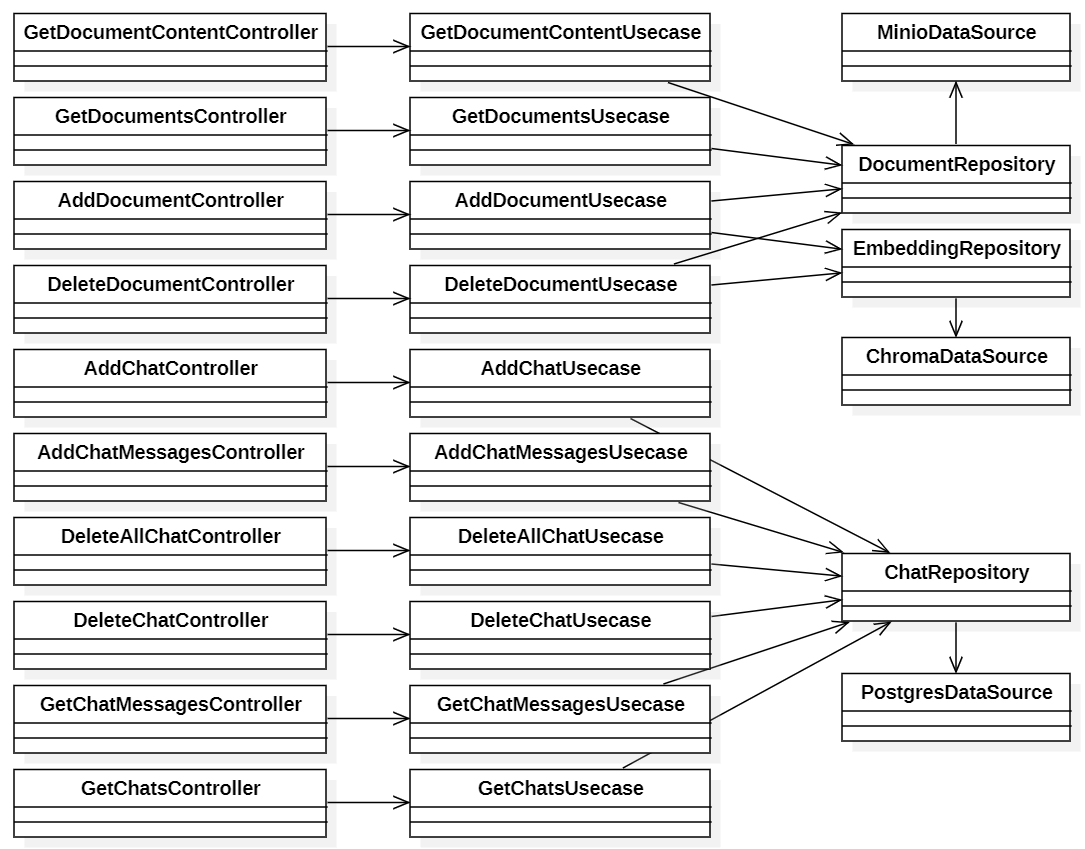
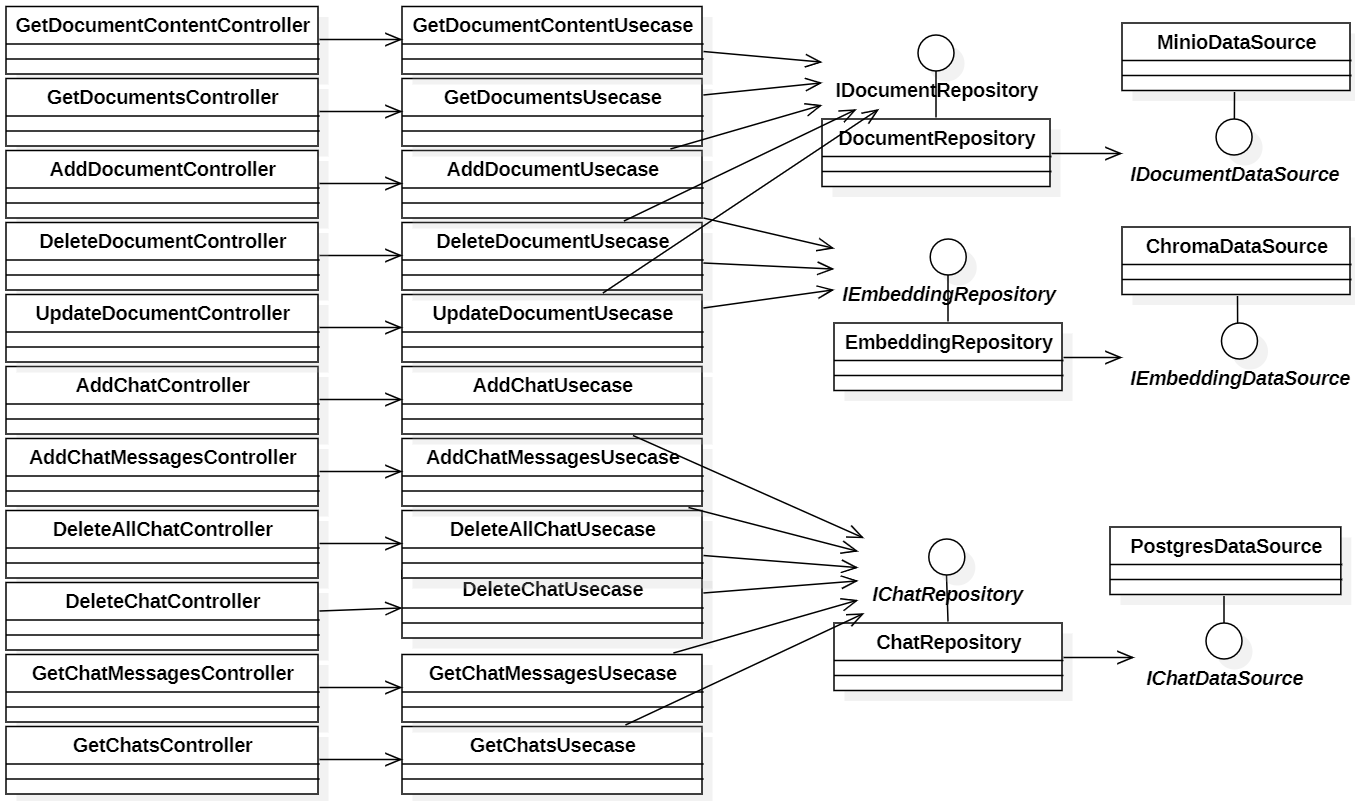
CC-276 Aggiornamento generale finale sezione backend (#248)
* Aggiornamento generale finale sezione backend

* New png

* Aggiunta versione file .tex

* fix versione

---------

Changed region(s): [[0.0, 0.0, 1.0, 0.9988], [0.6995, 0.5618, 0.73, 0.593]]

diff --git a/3-PB/Documentazione_esterna/Specifica_architetturale/archback.tex b/3-PB/Documentazione_esterna/Specifica_architetturale/archback.tex
@@ -9,7 +9,7 @@ Una volta terminate le operazioni nel data source, il controllo torna alla repos
 
 \begin{figure}[h!]
     \centering  
-    \includegraphics[width=0.7\textwidth]{backendview.png}
+    \includegraphics[width=0.95\textwidth]{backendview.png}
     \caption{UML introduttivo delle classi del back-end}
 \end{figure}
 
@@ -58,10 +58,10 @@ Questa funzione asincrona lato server effettua una chiamata a GetDocumentContent
 \begin{itemize}[itemsep=-4pt]
     \item \textit{docName: string};
     \item \textit{model: IModel};
-    \item \textit{visibility: boolean}.
+    \item \textit{updatedMetadas: Metadatas}.
 \end{itemize}
 \textbf{Descrizione}\\
-Questa funzione asincrona lato server effettua una chiamata a UpdateDocumentController, passando i parametri docName, model e visibility, che rappresentano il nome del documento da aggiornare, il modello che presenta tale documento e il nuovo valore che deve avere il tag di visibilità del documento. Gestisce la modifica delle informazioni inviando i dati al controller e si occupa di gestire eventuali errori che si possono verificare durante il processo.
+Questa funzione asincrona lato server effettua una chiamata a UpdateDocumentController, passando i parametri docName, model e updatedMetadas, che rappresentano il nome del documento da aggiornare, il modello che presenta tale documento e il nuovo valore che deve avere il tag di visibilità del documento. Gestisce la modifica delle informazioni inviando i dati al controller e si occupa di gestire eventuali errori che si possono verificare durante il processo.
 
 \subsubsection{addChat}
 \textbf{Parametri}
@@ -169,10 +169,10 @@ Questa classe controller, chiamata tramite la server action deleteDocument, gest
 \end{itemize}
 \textbf{Metodi}
 \begin{itemize}
-    \item \textit{handle(docName: string, model: IModel, visibility: boolean): Promise<Response>}.
+    \item \textit{handle(docName: string, model: IModel, updatedMetadas: Metadatas): Promise<Response>}.
 \end{itemize}
 \textbf{Descrizione}\\
-Questa classe controller, chiamata tramite la server action updateDocument, gestisce la chiamata al UpdateDocumentUsecase per aggiornare i tag e i metadati associati ad un documento, passando una \textit{string} docName, una \textit{string} model e un \textit{booleano} visibility, che rappresentano il nome del documento da aggiornare, il modello di appartenenza e il nuovo valore del tag di visibilità associato.\\ \\
+Questa classe controller, chiamata tramite la server action updateDocument, gestisce la chiamata al UpdateDocumentUsecase per aggiornare i tag e i metadati associati ad un documento, passando una \textit{string} docName, una \textit{string} model e dei metadati updatedMetadas, che rappresentano il nome del documento da aggiornare, il modello di appartenenza e il nuovo valore del tag di visibilità associato.\\ \\
 \textbf{Dipendenze}
 \begin{itemize}
     \item UpdateDocumentUsecase.
@@ -411,11 +411,12 @@ Questa classe controller, chiamata tramite la server action getChats, gestisce l
     \item \textit{execute(file: File, model: IModel)}.
 \end{itemize}
 \textbf{Descrizione}\\
-Questo use case, chiamato dal AddDocumentController, contiene la business logic relativa alle operazioni per aggiungere un nuovo documento nel sistema. Ricevuto il file e la \textit{string} model, gestisce la chiamata al DocumentRepository per aggiungere il nuovo documento. Dopo aver effettuato il parsing del contenuto del documento e averlo diviso per pagine, viene effettuato l'embedding del testo utilizzando l'embedding function determinata dal modello desiderato. Una volta completato questo processo, mapando gli embedding con il nome del documento, i metadati associati e il suo file, viene chiamato anche l'EmbeddingRepository per lo storage dei vettori sul database vettoriale. \\ \\
+Questo use case, chiamato dal AddDocumentController, contiene la business logic relativa alle operazioni per aggiungere un nuovo documento nel sistema. Ricevuto il file e la \textit{string} model, gestisce la chiamata al DocumentRepository per aggiungere il nuovo documento. Dopo aver effettuato il parsing del contenuto del documento e averlo diviso per pagine, viene effettuato l'embedding del testo utilizzando l'embedding function determinata dal modello desiderato. Una volta completato questo processo, mapando gli embedding con il nome del documento, i metadati associati e il suo file, viene chiamato anche l'EmbeddingRepository per lo storage dei vettori sul database vettoriale.\\
+Presenta un riferimento a delle interfacce IDocumentRepository e IEmbeddingRepository, le cui implementazioni concrete sono DocumentRepository e EmbeddingRepository, che espongono i metodi per lavorare sulle fonti dei dati presenti nel database.\\ \\
 \textbf{Dipendenze}
 \begin{itemize}[itemsep=-4pt]
-    \item DocumentRepository;
-    \item EmbeddingRepository.
+    \item IDocumentRepository;
+    \item IEmbeddingRepository.
 \end{itemize}
 \textbf{Requisiti associati}
 \begin{itemize}[itemsep=-4pt]
@@ -448,11 +449,12 @@ Questo use case, chiamato dal AddDocumentController, contiene la business logic 
 \end{itemize}
 \textbf{Descrizione}\\
 Questo use case, chiamato dal DeleteDocumentController, contiene la business logic relativa alle operazioni per eliminare uno specifico documento dal sistema. Ricevute le \textit{string} docName e model, gestisce la chiamata al DocumentRepository e all'EmbeddingRepository per rimuovere nuovo documento.\\
-Dopo aver effettuato la chiamata al DocumentRepository per richiedere l'eliminazione del documento dal database MinIO, richiede l'id degli embedding da rimuovere all'EmbeddingRepository, per poi richiedere l'eliminazione dei vettori identificati da essi alla medesima classe repository. \\ \\
+Dopo aver effettuato la chiamata al DocumentRepository per richiedere l'eliminazione del documento dal database MinIO, richiede l'id degli embedding da rimuovere all'EmbeddingRepository, per poi richiedere l'eliminazione dei vettori identificati da essi alla medesima classe repository.\\
+Presenta un riferimento a delle interfacce IDocumentRepository e IEmbeddingRepository, le cui implementazioni concrete sono DocumentRepository e EmbeddingRepository, che espongono i metodi per lavorare sulle fonti dei dati presenti nel database. \\ \\
 \textbf{Dipendenze}
 \begin{itemize}[itemsep=-4pt]
-    \item DocumentRepository;
-    \item EmbeddingRepository.
+    \item IDocumentRepository;
+    \item IEmbeddingRepository.
 \end{itemize}
 \textbf{Requisiti associati}
 \begin{itemize}
@@ -477,15 +479,16 @@ Dopo aver effettuato la chiamata al DocumentRepository per richiedere l'eliminaz
 \end{itemize}
 \textbf{Metodi}
 \begin{itemize}
-    \item \textit{execute(docName: string, model: IModel, visibility: boolean)}.
+    \item \textit{execute(docName: string, model: IModel, updatedMetadas: Metadatas)}.
 \end{itemize}
 \textbf{Descrizione}\\
-Questo use case, chiamato dal UpdateDocumentController, contiene la business logic relativa alle operazioni per aggiornare i tag e i metadati, relativi alla visibilità, di uno specifico documento. Ricevute le \textit{string} docName e model e il valore \textit{booleano} visibility, gestisce la chiamata al DocumentRepository e all'EmbeddingRepository per aggiornare i valori.\\
-Dopo aver effettuato la chiamata al DocumentRepository per richiedere l'aggiornamento del tag di visibilità del documento nel database MinIO, richiede l'id degli embedding da modificare all'EmbeddingRepository, per poi richiedere la modifica del metadato visibility dei vettori identificati da essi alla medesima classe repository. \\ \\
+Questo use case, chiamato dal UpdateDocumentController, contiene la business logic relativa alle operazioni per aggiornare i tag e i metadati, relativi alla visibilità, di uno specifico documento. Ricevute le \textit{string} docName e model e i nuovi metadati updatedMetadas, gestisce la chiamata al DocumentRepository e all'EmbeddingRepository per aggiornare i valori.\\
+Dopo aver effettuato la chiamata al DocumentRepository per richiedere l'aggiornamento del tag di visibilità del documento nel database MinIO, richiede l'id degli embedding da modificare all'EmbeddingRepository, per poi richiedere la modifica del metadato visibility dei vettori identificati da essi alla medesima classe repository.\\
+Presenta un riferimento a delle interfacce IDocumentRepository e IEmbeddingRepository, le cui implementazioni concrete sono DocumentRepository e EmbeddingRepository, che espongono i metodi per lavorare sulle fonti dei dati presenti nel database.\\ \\
 \textbf{Dipendenze}
 \begin{itemize}[itemsep=-4pt]
-    \item DocumentRepository;
-    \item EmbeddingRepository.
+    \item IDocumentRepository;
+    \item IEmbeddingRepository.
 \end{itemize}
 \textbf{Requisiti associati}
 \begin{itemize}[itemsep=-4pt]
@@ -515,10 +518,11 @@ Dopo aver effettuato la chiamata al DocumentRepository per richiedere l'aggiorna
     \item \textit{execute(docName: string, model: IModel)}.
 \end{itemize}
 \textbf{Descrizione}\\
-Questo use case, chiamato dal GetDocumentContentController, contiene la business logic relativa alle operazioni per ottenere il link di visualizzazione di uno specifico documento dal sistema. Ricevute le \textit{string} docName e model, gestisce la chiamata al DocumentRepository per recuperare tale informazione.\\ \\
+Questo use case, chiamato dal GetDocumentContentController, contiene la business logic relativa alle operazioni per ottenere il link di visualizzazione di uno specifico documento dal sistema. Ricevute le \textit{string} docName e model, gestisce la chiamata al DocumentRepository per recuperare tale informazione.\\
+Presenta un riferimento ad un'interfaccia IDocumentRepository , la cui implementazione concreta è DocumentRepository, che espone i metodi per lavorare sulle fonti dei dati presenti nel database.\\ \\
 \textbf{Dipendenze}
 \begin{itemize}
-    \item DocumentRepository.
+    \item IDocumentRepository.
 \end{itemize}
 \textbf{Requisiti associati}
 \begin{itemize}[itemsep=-4pt]
@@ -546,10 +550,11 @@ Questo use case, chiamato dal GetDocumentContentController, contiene la business
     \item \textit{execute(model: IModel) : Promise<Document[]>}.
 \end{itemize}
 \textbf{Descrizione}\\
-Questo use case, chiamato dal GetDocumentsController, contiene la business logic relativa alle operazioni per ottenere le informazioni dei documenti presenti nel sistema. Ricevuto il model, gestisce la chiamata al DocumentRepository per recuperare le informazioni dei documenti presenti in quello specifico modello.\\ \\
+Questo use case, chiamato dal GetDocumentsController, contiene la business logic relativa alle operazioni per ottenere le informazioni dei documenti presenti nel sistema. Ricevuto il model, gestisce la chiamata al DocumentRepository per recuperare le informazioni dei documenti presenti in quello specifico modello.\\
+Presenta un riferimento ad un'interfaccia IDocumentRepository , la cui implementazione concreta è DocumentRepository, che espone i metodi per lavorare sulle fonti dei dati presenti nel database.\\ \\
 \textbf{Dipendenze}
 \begin{itemize}
-    \item DocumentRepository.
+    \item IDocumentRepository.
 \end{itemize}
 \textbf{Requisiti associati}
 \begin{itemize}[itemsep=-4pt]
@@ -581,10 +586,11 @@ Questo use case, chiamato dal GetDocumentsController, contiene la business logic
     \item \textit{execute(messages: ICustomMessages): Promise<void>}.
 \end{itemize}
 \textbf{Descrizione}\\
-Questo use case, chiamato dal AddChatMessagesController, contiene la business logic relativa alle operazioni per aggiungere le informazioni dei messaggi scritti, definiti dall'\textit{ICustomMessages}. Ricevuto il messages, gestisce la chiamata al ChatRepository per richiedere il salvataggio del dato.\\ \\
+Questo use case, chiamato dal AddChatMessagesController, contiene la business logic relativa alle operazioni per aggiungere le informazioni dei messaggi scritti, definiti dall'\textit{ICustomMessages}. Ricevuto il messages, gestisce la chiamata al ChatRepository per richiedere il salvataggio del dato.\\
+Presenta un riferimento ad un'interfaccia IChatRepository , la cui implementazione concreta è ChatRepository, che espone i metodi per lavorare sulle fonti dei dati presenti nel database.\\ \\
 \textbf{Dipendenze}
 \begin{itemize}
-    \item ChatRepository.
+    \item IChatRepository.
 \end{itemize}
 \textbf{Requisiti associati}
 \begin{itemize}[itemsep=-4pt]
@@ -611,10 +617,11 @@ Questo use case, chiamato dal AddChatMessagesController, contiene la business lo
     \item \textit{execute(title: string): Promise<void>}.
 \end{itemize}
 \textbf{Descrizione}\\
-Questo use case, chiamato dal AddChatController, contiene la business logic relativa alle operazioni per aggiungere una nuova sessione di conversazione nel sistema, che avrà un nome definito dalla \textit{string} title. Ricevuto questo title, gestisce la chiamata al ChatRepository per richiedere la creazione della nuova sessione.\\ \\
+Questo use case, chiamato dal AddChatController, contiene la business logic relativa alle operazioni per aggiungere una nuova sessione di conversazione nel sistema, che avrà un nome definito dalla \textit{string} title. Ricevuto questo title, gestisce la chiamata al ChatRepository per richiedere la creazione della nuova sessione.\\
+Presenta un riferimento ad un'interfaccia IChatRepository , la cui implementazione concreta è ChatRepository, che espone i metodi per lavorare sulle fonti dei dati presenti nel database.\\ \\
 \textbf{Dipendenze}
 \begin{itemize}
-    \item ChatRepository.
+    \item IChatRepository.
 \end{itemize}
 \textbf{Requisiti associati}
 \begin{itemize}
@@ -641,10 +648,11 @@ Questo use case, chiamato dal AddChatController, contiene la business logic rela
     \item \textit{execute(): Promise<number>.}
 \end{itemize}
 \textbf{Descrizione}\\
-Questo use case, chiamato dal DeleteAllChatController, contiene la business logic relativa alle operazioni per eliminare dal database tutte le informazioni relative alle sessioni di conversazione attive, incluse le chat history ad esse associate.\\ \\
+Questo use case, chiamato dal DeleteAllChatController, contiene la business logic relativa alle operazioni per eliminare dal database tutte le informazioni relative alle sessioni di conversazione attive, incluse le chat history ad esse associate.\\
+Presenta un riferimento ad un'interfaccia IChatRepository , la cui implementazione concreta è ChatRepository, che espone i metodi per lavorare sulle fonti dei dati presenti nel database.\\ \\
 \textbf{Dipendenze}
 \begin{itemize}
-    \item ChatRepository.
+    \item IChatRepository.
 \end{itemize}
 \textbf{Requisiti associati}
 \begin{itemize}[itemsep=-4pt]
@@ -672,10 +680,11 @@ Questo use case, chiamato dal DeleteAllChatController, contiene la business logi
     \item \textit{execute(id: number): Promise<void>}.
 \end{itemize}
 \textbf{Descrizione}\\
-Questo use case, chiamato dal DeleteChatController, contiene la business logic relativa alle operazioni per eliminare dal database tutte le informazioni relative ad una particolare sessione di conversazione, definita dal \textit{number} id, e alla sua chat history. Ricevuto l'id, gestisce la chiamata al ChatRepository per richiedere l'eliminazione della sessione.\\ \\
+Questo use case, chiamato dal DeleteChatController, contiene la business logic relativa alle operazioni per eliminare dal database tutte le informazioni relative ad una particolare sessione di conversazione, definita dal \textit{number} id, e alla sua chat history. Ricevuto l'id, gestisce la chiamata al ChatRepository per richiedere l'eliminazione della sessione.\\
+Presenta un riferimento ad un'interfaccia IChatRepository , la cui implementazione concreta è ChatRepository, che espone i metodi per lavorare sulle fonti dei dati presenti nel database.\\ \\
 \textbf{Dipendenze}
 \begin{itemize}
-    \item ChatRepository.
+    \item IChatRepository.
 \end{itemize}
 \textbf{Requisiti associati}
 \begin{itemize}[itemsep=-4pt]
@@ -703,10 +712,11 @@ Questo use case, chiamato dal DeleteChatController, contiene la business logic r
     \item \textit{execute(id: number): Promise<allMessages: Message[], source: MessageSource>}.
 \end{itemize}
 \textbf{Descrizione}\\
-Questo use case, chiamato dal GetChatMessagesController, contiene la business logic relativa alle operazioni per ottenere dal database la chat history relativa ad una particolare sessione di conversazione, definita dal \textit{number} id. Ricevuto l'id, gestisce la chiamata al ChatRepository per il recupero dei messaggi.\\ \\
+Questo use case, chiamato dal GetChatMessagesController, contiene la business logic relativa alle operazioni per ottenere dal database la chat history relativa ad una particolare sessione di conversazione, definita dal \textit{number} id. Ricevuto l'id, gestisce la chiamata al ChatRepository per il recupero dei messaggi.\\
+Presenta un riferimento ad un'interfaccia IChatRepository , la cui implementazione concreta è ChatRepository, che espone i metodi per lavorare sulle fonti dei dati presenti nel database.\\ \\
 \textbf{Dipendenze}
 \begin{itemize}
-    \item ChatRepository.
+    \item IChatRepository.
 \end{itemize}
 \textbf{Requisiti associati}
 \begin{itemize}
@@ -733,10 +743,11 @@ Questo use case, chiamato dal GetChatMessagesController, contiene la business lo
     \item \textit{execute(): Promise<Chat[]>}.
 \end{itemize}
 \textbf{Descrizione}\\
-Questo use case, chiamato dal GetChatsController, contiene la business logic relativa alle operazioni per ottenere dal database le informazioni relative alle sessioni di conversazione salvate e attive nel sistema.\\ \\
+Questo use case, chiamato dal GetChatsController, contiene la business logic relativa alle operazioni per ottenere dal database le informazioni relative alle sessioni di conversazione salvate e attive nel sistema.\\
+Presenta un riferimento ad un'interfaccia IChatRepository , la cui implementazione concreta è ChatRepository, che espone i metodi per lavorare sulle fonti dei dati presenti nel database.\\ \\
 \textbf{Dipendenze}
 \begin{itemize}
-    \item ChatRepository.
+    \item IChatRepository.
 \end{itemize}
 \textbf{Requisiti associati}
 \begin{itemize}
@@ -763,12 +774,13 @@ Questo use case, chiamato dal GetChatsController, contiene la business logic rel
 \begin{itemize}[itemsep=-4pt]
     \item \textit{addDocument(doc: Document, model: IModel): Promise<void>};
     \item \textit{deleteDocument(docName: string, model: IModel): Promise<void>};
-    \item \textit{updateDocument(docName: string, model: IModel, visibility: boolean): Promise<void>};
+    \item \textit{updateDocument(docName: string, model: IModel, tag: Metadatas): Promise<void>};
     \item \textit{getDocuments(model: IModel): Promise<Document[]>};
     \item \textit{getDocumentContent(docName: string, model: IModel): Promise<string>}. 
 \end{itemize}
 \textbf{Descrizione}\\
-La classe DocumentRepository, utilizzata dagli use cases AddDocument, DeleteDocument, UpdateDocument, GetDocumentContent e GetDocuments, espone i metodi con cui interfacciarsi alle fonti dei dati per il recupero dei dati necessari alla logica di business per aggiunta, rimozione, modifica e lettura dei documenti. Presenta un riferimento ad un'interfaccia IDocumentDataSource, la cui implementazione concreta è MinioDataSource che espone i metodi per lavorare sui dati presenti nel database.\\ \\
+La classe DocumentRepository, utilizzata dagli use cases AddDocument, DeleteDocument, UpdateDocument, GetDocumentContent e GetDocuments, espone i metodi con cui interfacciarsi alle fonti dei dati per il recupero dei dati necessari alla logica di business per aggiunta, rimozione, modifica e lettura dei documenti.\\
+Presenta un riferimento ad un'interfaccia IDocumentDataSource, la cui implementazione concreta è MinioDataSource che espone i metodi per lavorare sui dati presenti nel database.\\ \\
 \textbf{Dipendenze}
 \begin{itemize}
     \item IDocumentDataSource.
@@ -797,7 +809,8 @@ La classe DocumentRepository, utilizzata dagli use cases AddDocument, DeleteDocu
     \item \textit{getIdsEmbedding(docName: string, model: IModel): Promise<any>}.
 \end{itemize}
 \textbf{Descrizione}\\
-La classe EmbeddingRepository, utilizzata dagli use cases AddDocument e DeleteDocument, espone i metodi con cui interfacciarsi alle fonti dei dati per il recupero dei dati necessari all'aggiunta ed eliminazione degli embedding di documenti. Presenta un riferimento ad un'interfaccia IEmbeddingDataSource, la cui implementazione concreta è ChromaDataSource che espone i metodi per lavorare sui dati presenti nel vector database.\\ \\
+La classe EmbeddingRepository, utilizzata dagli use cases AddDocument e DeleteDocument, espone i metodi con cui interfacciarsi alle fonti dei dati per il recupero dei dati necessari all'aggiunta ed eliminazione degli embedding di documenti.\\
+Presenta un riferimento ad un'interfaccia IEmbeddingDataSource, la cui implementazione concreta è ChromaDataSource che espone i metodi per lavorare sui dati presenti nel vector database.\\ \\
 \textbf{Dipendenze}
 \begin{itemize}
     \item IEmbeddingDataSource.
@@ -830,7 +843,8 @@ La classe EmbeddingRepository, utilizzata dagli use cases AddDocument e DeleteDo
     \item \textit{getChats(): Promise<Chat[]>}.
 \end{itemize}
 \textbf{Descrizione}\\
-La classe ChatRepository, utilizzata dagli use cases AddChatMessages, AddChat, DeleteAllChat, DeleteChat, GetChatMessages e GetChats, espone i metodi con cui interfacciarsi alla fonte dei dati per il recupero delle informazioni necessarie alla logica di business per aggiunta, rimozione e recupero delle sessioni di conversazione e dei messaggi delle chat history ad esse associate. Presenta un riferimento ad un'interfaccia IChatDataSource, la cui implementazione concreta è PostgresDataSource che espone i metodi per lavorare sui dati presenti nel database.\\ \\
+La classe ChatRepository, utilizzata dagli use cases AddChatMessages, AddChat, DeleteAllChat, DeleteChat, GetChatMessages e GetChats, espone i metodi con cui interfacciarsi alla fonte dei dati per il recupero delle informazioni necessarie alla logica di business per aggiunta, rimozione e recupero delle sessioni di conversazione e dei messaggi delle chat history ad esse associate.\\
+Presenta un riferimento ad un'interfaccia IChatDataSource, la cui implementazione concreta è PostgresDataSource che espone i metodi per lavorare sui dati presenti nel database.\\ \\
 \textbf{Dipendenze}
 \begin{itemize}
     \item IChatDataSource.
@@ -838,10 +852,9 @@ La classe ChatRepository, utilizzata dagli use cases AddChatMessages, AddChat, D
 
 \begin{figure}[h!]
     \centering  
-    \includegraphics[width=0.7\textwidth]{ChatRepository.png}
+    \includegraphics[width=0.6\textwidth]{ChatRepository.png}
     \caption{UML della classe ChatRepository}
 \end{figure}
-
 \subsection{Data Sources} \label{subsec:datasources}
 \subsubsection{MinioDataSource}
 \textbf{Decoratori}
@@ -1004,7 +1017,7 @@ Sono definite due diverse tabelle: la tabella \textit{chat\_threads}, che rappre
     \includegraphics[width=0.8\textwidth]{postgresdb.png}
     \caption{Diagramma ER del database Postgres}
 \end{figure}
-
+\vspace{2cm}
 \begin{figure}[h!]
     \centering  
     \includegraphics[width=0.8\textwidth]{querypostgresdb.png}

diff --git a/3-PB/Documentazione_esterna/Specifica_architetturale/frontespizio.tex b/3-PB/Documentazione_esterna/Specifica_architetturale/frontespizio.tex
@@ -9,6 +9,6 @@
         \node [draw,white,text=black, below=of uni] (corso1) {\fontsize{28pt}{32pt}\selectfont Corso di Ingegneria};
         \node [yshift=0.75cm,draw,white,text=black, below=of corso1] (corso2) {\fontsize{28pt}{32pt}\selectfont del Software};
         \node [xshift=3.5cm,yshift=7cm,draw,white,text=black] (riunione) at (current page.south){\fontsize{40pt}{48pt}\selectfont Specifica architetturale};
-        \node [draw,white,text=black, below=of riunione] (versione) {\fontsize{28pt}{32pt}\selectfont Versione 0.17};
+        \node [draw,white,text=black, below=of riunione] (versione) {\fontsize{28pt}{32pt}\selectfont Versione 0.18};
     \end{tikzpicture}
 \end{titlepage}

diff --git a/3-PB/Documentazione_esterna/Specifica_architetturale/log.tex b/3-PB/Documentazione_esterna/Specifica_architetturale/log.tex
@@ -11,6 +11,8 @@
     \rowcolor{headerrow} \textbf{\textcolor{white}{Versione}} & \textbf{\textcolor{white}{Data}} & \textbf{\textcolor{white}{Autori}} & \textbf{\textcolor{white}{Verificatori}} & \textbf{\textcolor{white}{Descrizione}} \\
     \endhead
     \hline
+    0.18 & 2024/03/31 & Andrea Cecchin & Francesco Ferraioli & Aggiornamento sezione \ref{sec:archback}.\\
+    \hline
     0.17 & 2024/03/30 & Marco Dolzan & Francesco Giacomuzzo & Aggiornamento capitolo \ref{cap:tech}.\\
     \hline
     0.16 & 2024/03/30 & Andrea Cecchin & Francesco Giacomuzzo & Aggiornamento sezione \ref{sec:designpatt}.\\

diff --git a/3-PB/Documentazione_esterna/Specifica_architetturale/archlogica.tex b/3-PB/Documentazione_esterna/Specifica_architetturale/archlogica.tex
@@ -1,4 +1,4 @@
-\section{Architettura logica del prodotto} \label{sec:archlogica}
+\section{Logica del prodotto} \label{sec:archlogica}
 
 \begin{figure}[h!]
     \centering  
